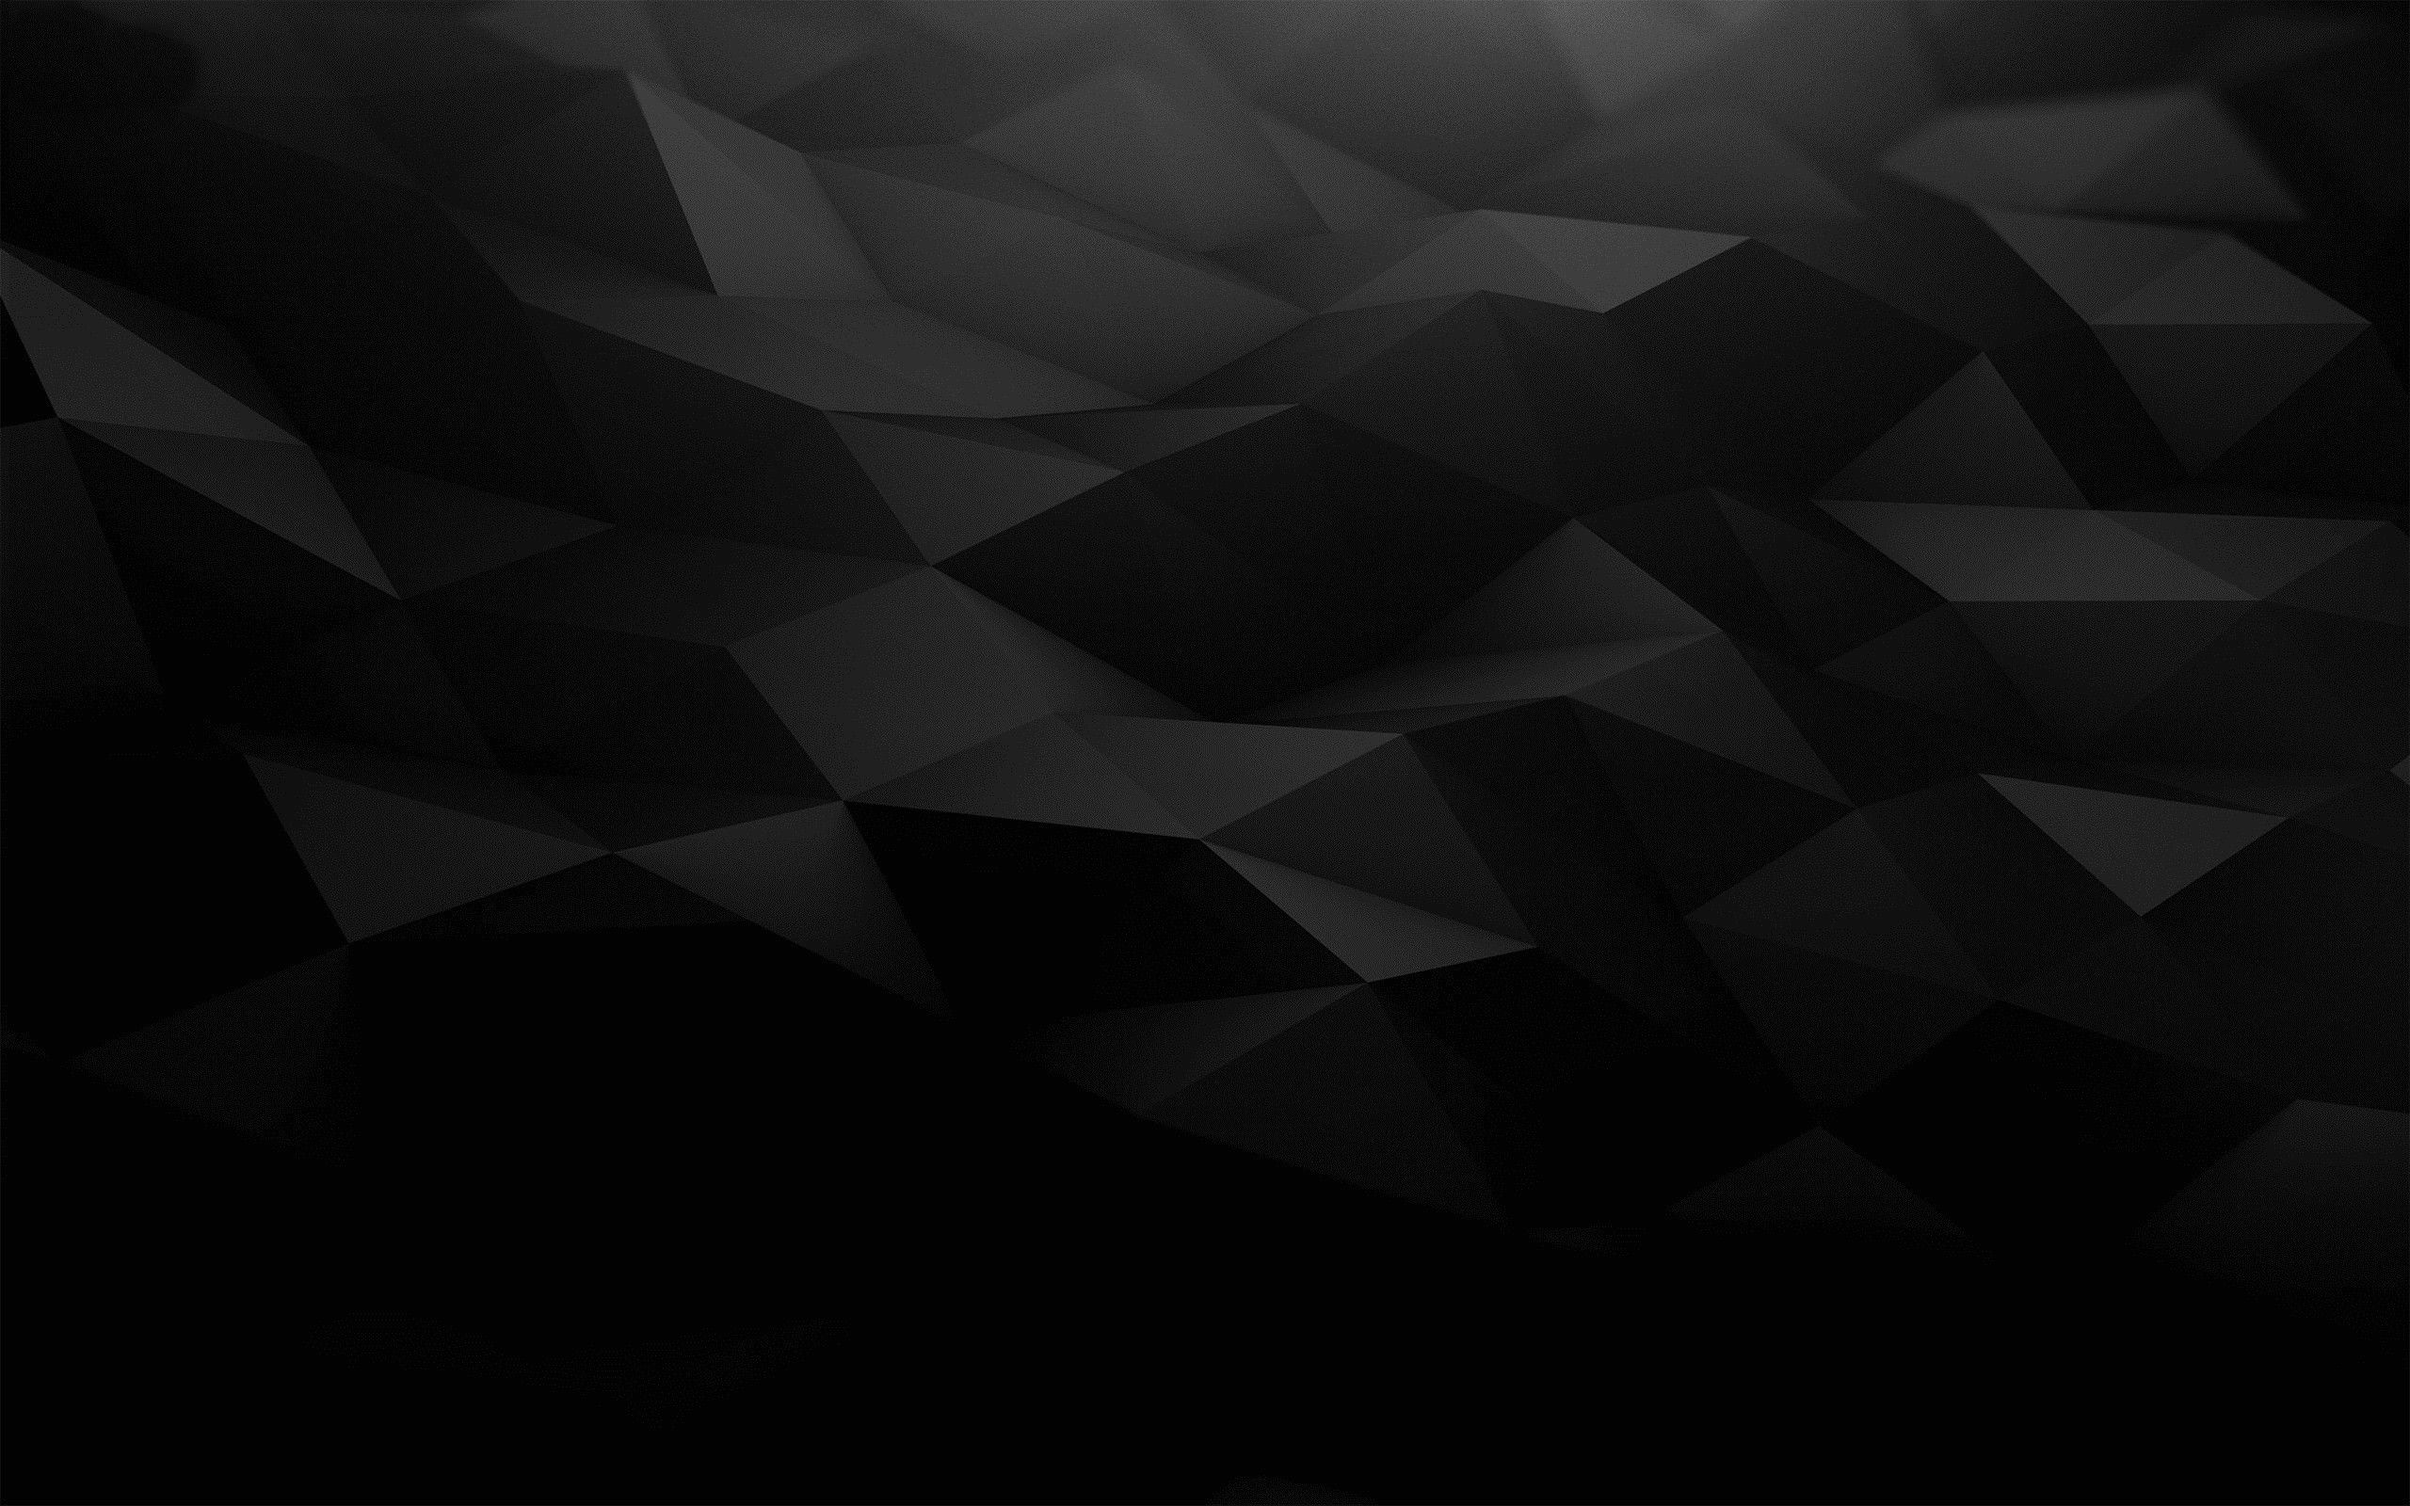
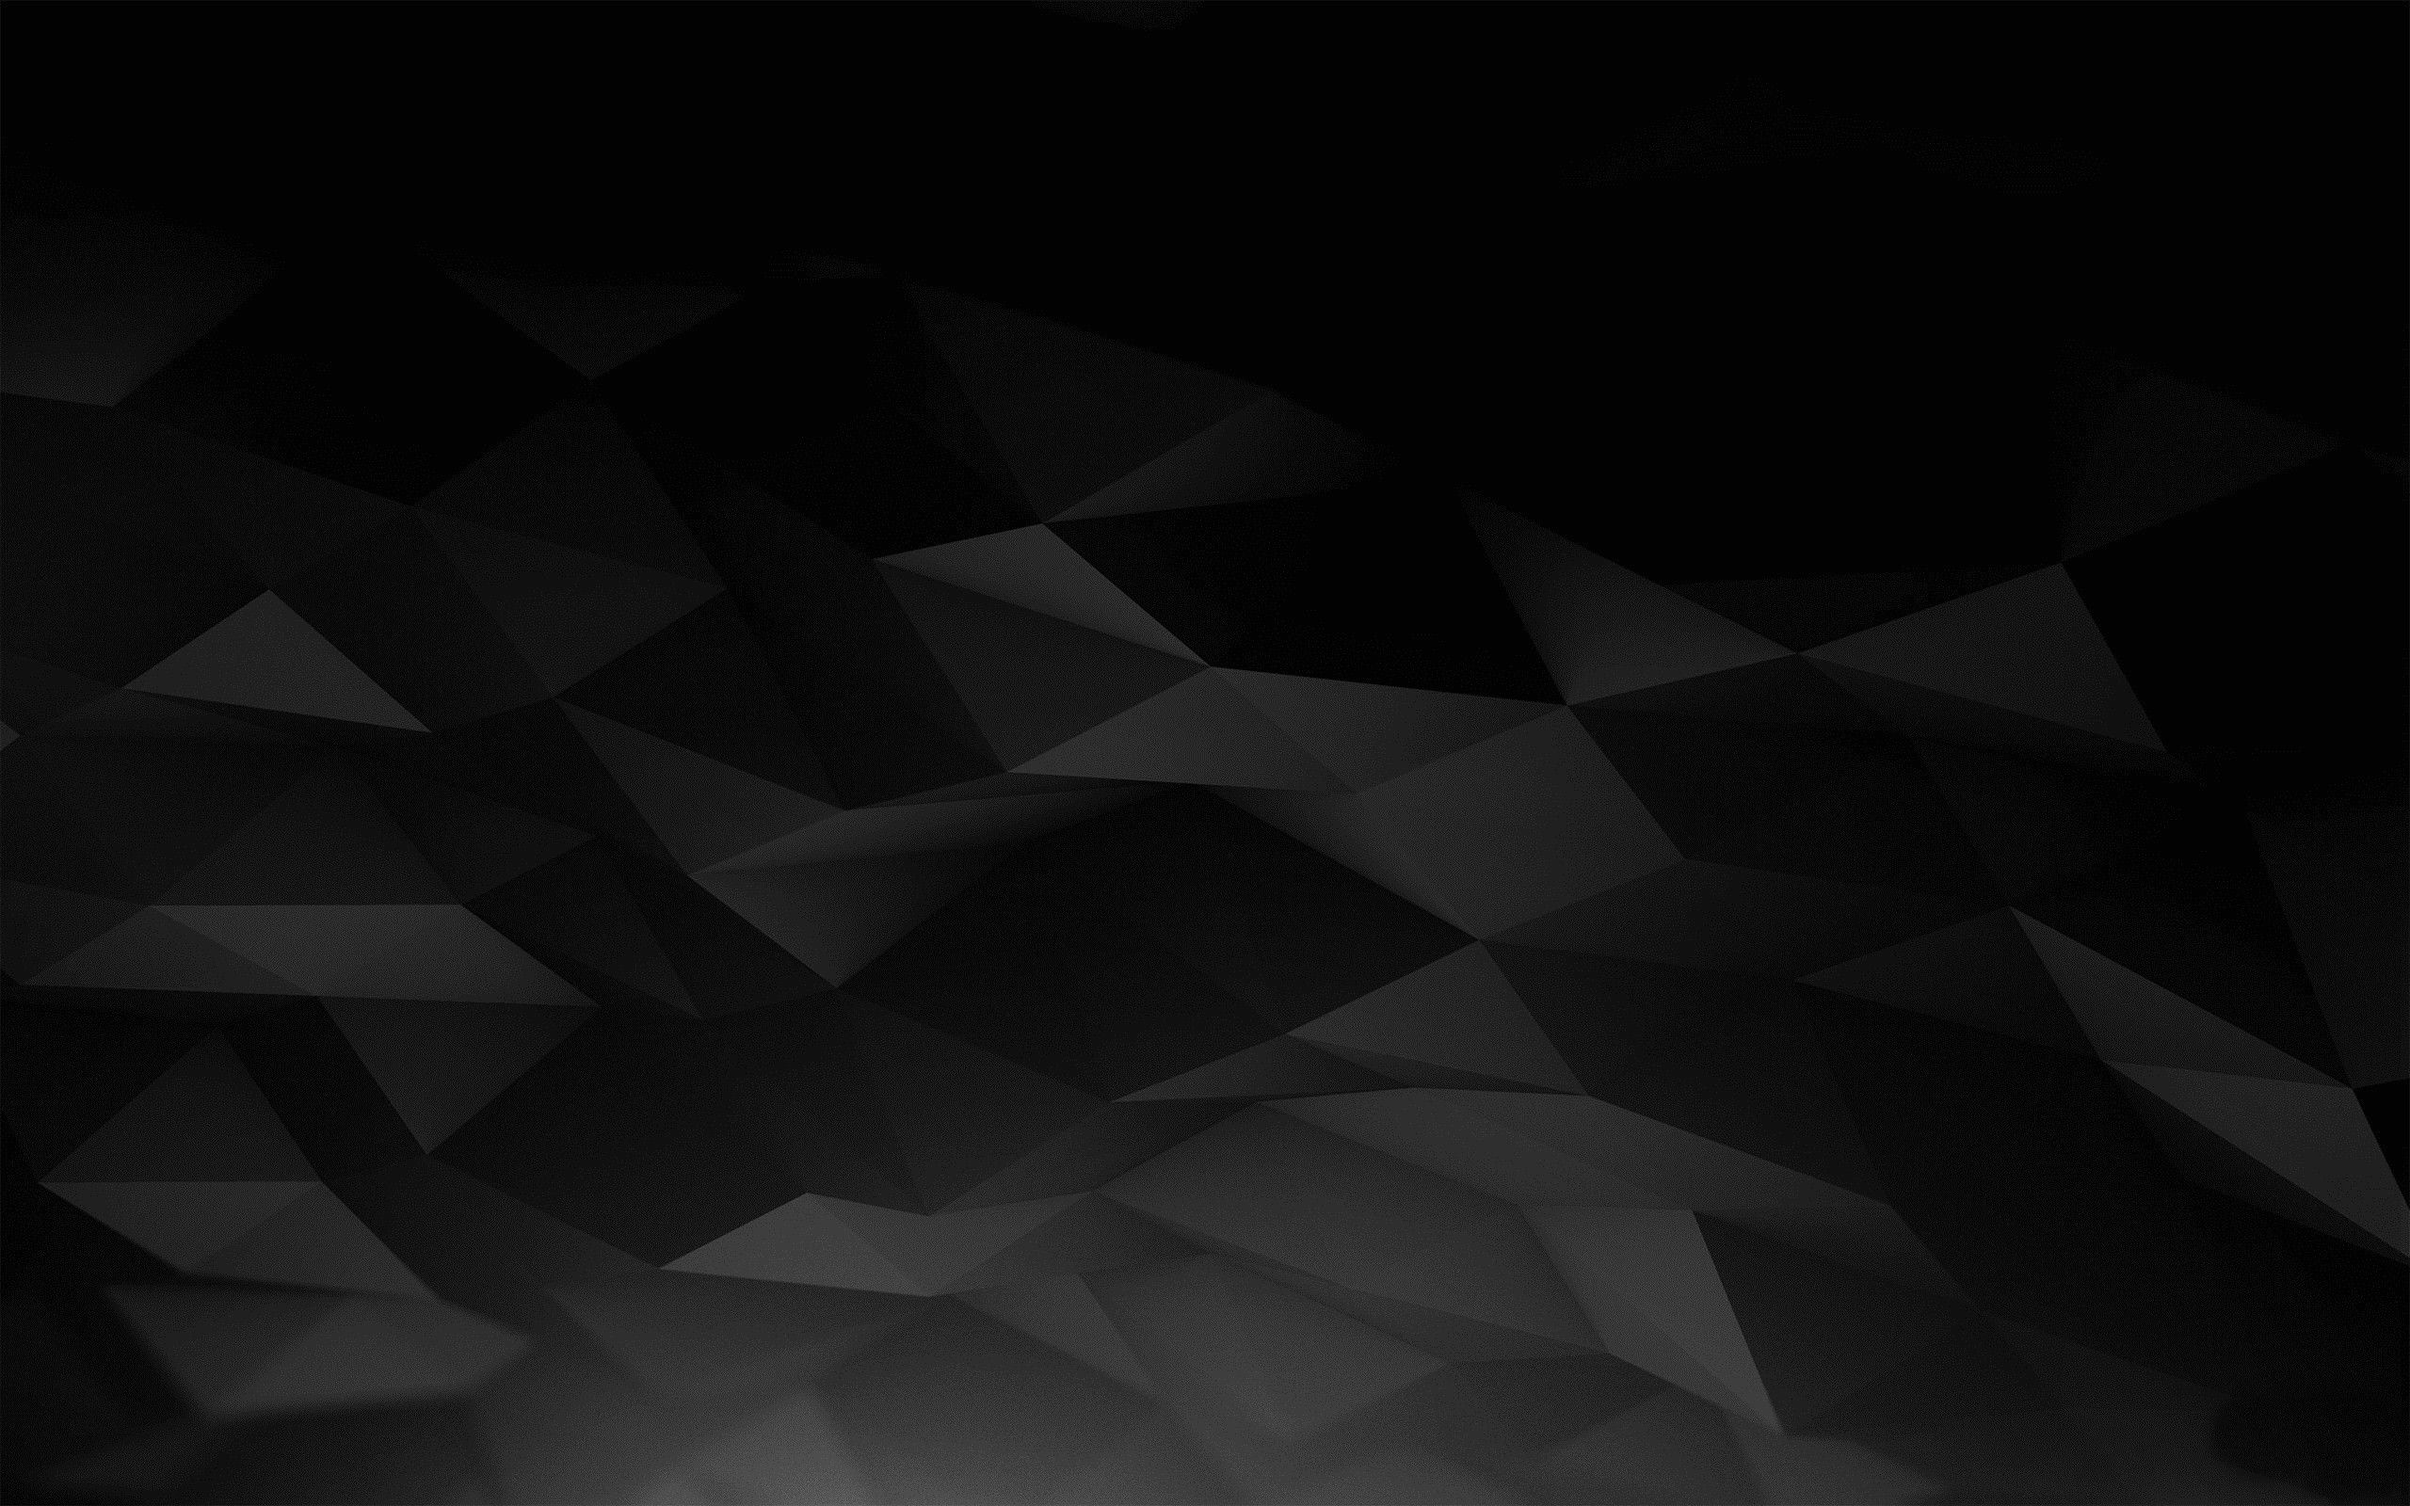
adicionado efeitos css  na pag de skills

diff --git a/src/Components/Skills.css b/src/Components/Skills.css
@@ -11,14 +11,13 @@
   padding-top: 10px;
   padding-left: 76px;
   align-items: center;
-  height: 150vh;
+  height: 130vh;
   /* background-color: rgb(23, 39, 39); */
   background-image: url("../images/pretoDegrade.jpg");
-  background-repeat: no-repeat;
+  /* background-repeat: no-repeat; */
   /* background-size: cover; */
-  background-size:cover;
-  background-position:110px;
-  background: ;
+  background-size: auto;
+  /* background-position:110px; */
   /* background-position-x:100px ; */
   /* background-image: linear-gradient(red, yellow); */
   /* background-image: radial-gradient(red, yellow, green); */
@@ -75,6 +74,7 @@
   /* width: 230px; */
   /* height: 230px; */
   background-color: rgba(255, 252, 252, 0.171);
+  -webkit-transform: rotate(3deg);
 }
 
 .vidro img:hover {
